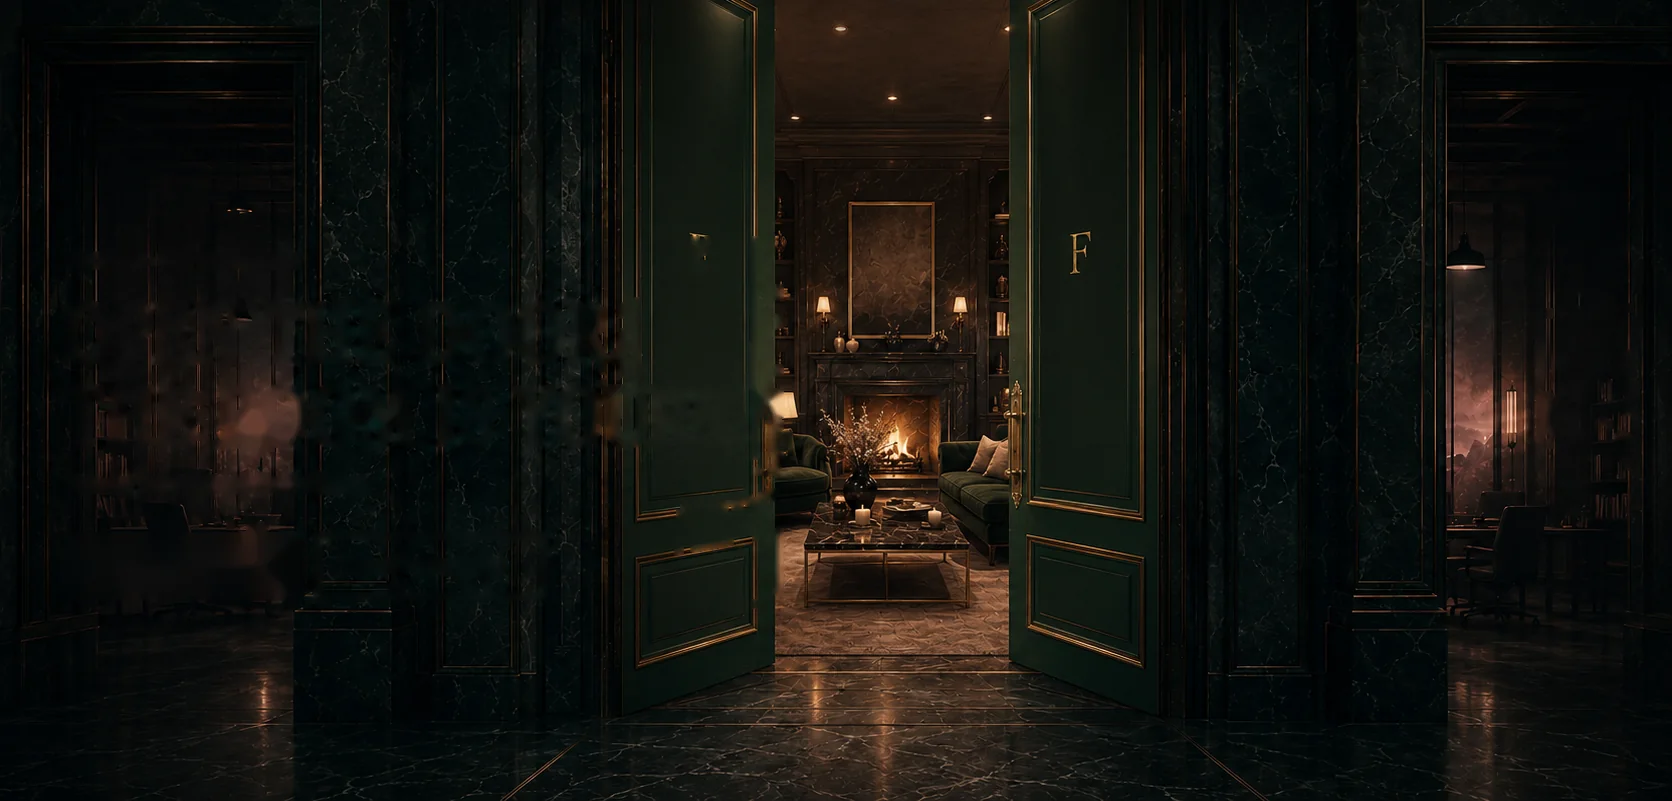
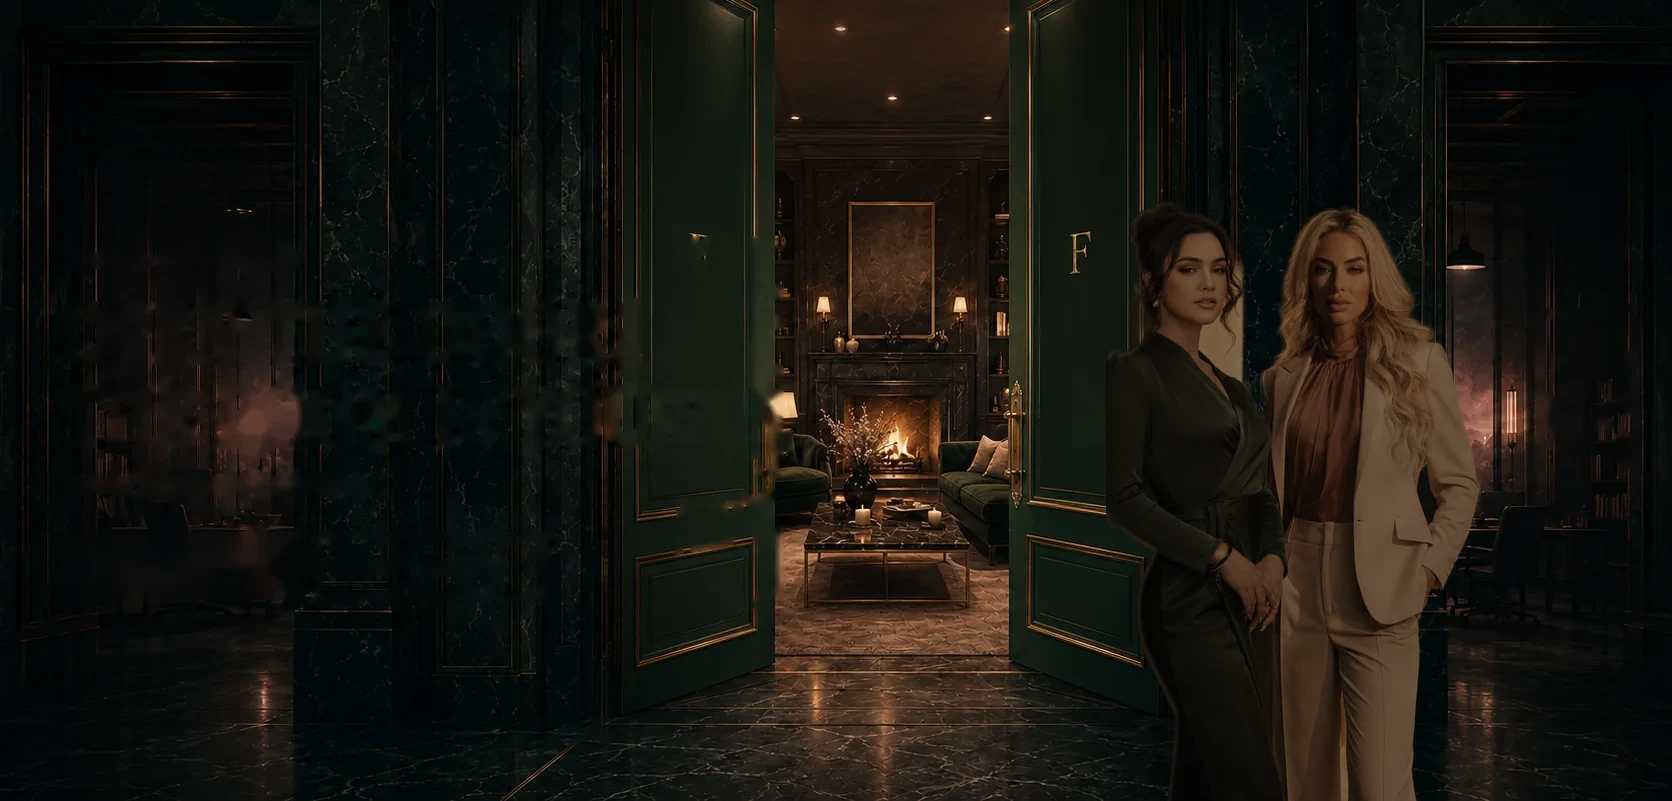
Put the two women in the threshold
The homepage hero was an empty room — doors standing open on a firelit
lounge, nobody in it. The board is explicit that women are the subject and
should look occupied and self-possessed, "never merely placed", so the
house's own two models now stand at the threshold.

They are composited, not shot: the source is editorial/hero-two-women.webp,
same house, same green panelling, same warm doorway light, matted with
u2net_human_seg — which holds hair against a dark ground where the
geometric mattes used for the packshots cannot.

Three things put them in the plate rather than on it. The cutout is
mirrored so its warm side faces the lit doorway. It is graded down hard —
the source is a lit portrait, the plate is far darker — with the top third
holding a little more exposure so the faces do not fall to silhouette. And
the marble visibly reflects the doors, so they get a reflection as well as
a contact shadow; without it they float.

The rim light is deliberately almost invisible. At any strength you can
actually see it, it draws a contour down the silhouette and the whole thing
reads as a sticker.

Desktop keeps them right of centre, clear of the #0a2523 gradient the page
lays over the left 62% for the copy. The mobile plate is 600 wide with no
left half to protect, so they stand nearer the middle.

Claude-Session: https://claude.ai/code/session_01Ur261Wsau2RympRHJCG9oK

Changed region(s): [[0.6531, 0.2497, 0.9019, 1.0], [0.6842, 0.9988, 0.7153, 1.0], [0.6531, 0.6242, 0.6842, 0.6554]]

diff --git a/src/lib/rooms.ts b/src/lib/rooms.ts
@@ -48,7 +48,7 @@ export const ROOMS: Room[] = [
     pathname: "/",
     hero: {
       src: "/editorial/rooms/threshold-doors.webp",
-      alt: "Two tall emerald doors, a brass F on each leaf, standing open onto a firelit sitting room in the FOUNDER house.",
+      alt: "Two women standing at the threshold of the FOUNDER house — one in a deep green wrap dress, one in a cream suit and rust silk — beside two tall emerald doors with a brass F on each leaf, open onto a firelit sitting room behind them.",
       position: "58% center",
     },
     heroMobile: { src: "/editorial/rooms/threshold-doors-m.webp" },
